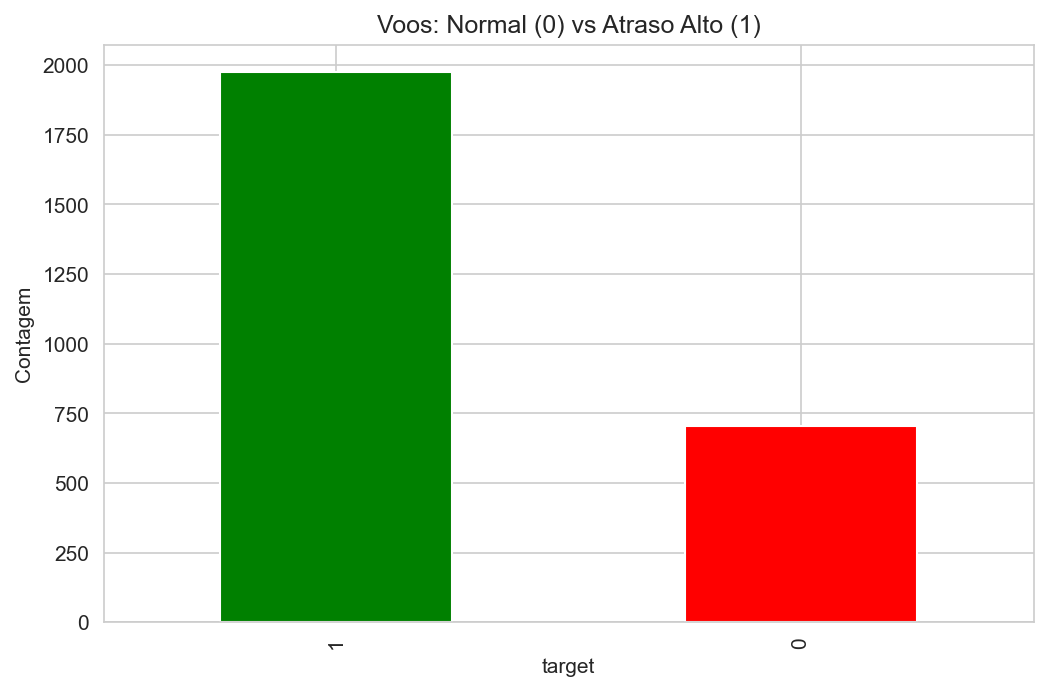
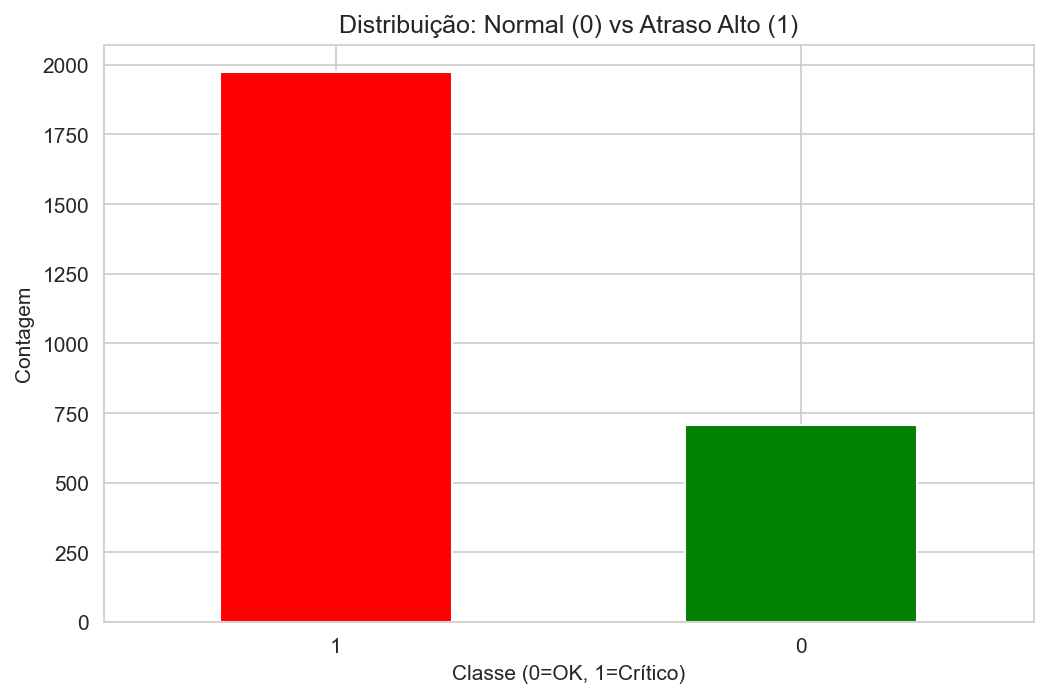
edit eda.py

diff --git a/src/eda.py b/src/eda.py
@@ -1,6 +1,6 @@
 #!/usr/bin/env python3
 """
-Task 2 EDA: Stats + Plots obrigatórios Tech Challenge Fase 3
+Task 2 EDA: Stats + Plots obrigatórios (FIX top_features)
 Roda da RAIZ projeto!
 """
 import argparse
@@ -8,48 +8,65 @@ import pandas as pd
 import matplotlib.pyplot as plt
 import seaborn as sns
 import os
-import sys
+import numpy as np
 
 sns.set_style("whitegrid")
 
 def eda(input_path, output_dir):
-    # Paths ABSOLUTOS da raiz projeto
-    script_dir = os.path.dirname(os.path.abspath(__file__))  # src/
-    project_root = os.path.dirname(script_dir)  # raiz/
+    # Paths da raiz projeto
+    script_dir = os.path.dirname(os.path.abspath(__file__))  
+    project_root = os.path.dirname(script_dir)
     
-    X_train = pd.read_parquet(os.path.join(project_root, input_path))
-    y_train_df = pd.read_parquet(os.path.join(project_root, 'data/processed/y_train.parquet'))
-    y_train = y_train_df['target']  # Extrai Series
+    X_path = os.path.join(project_root, input_path)
+    y_path = os.path.join(project_root, 'data/processed/y_train.parquet')
+    
+    X_train = pd.read_parquet(X_path)
+    y_train_df = pd.read_parquet(y_path)
+    y_train = y_train_df['target']
     
     os.makedirs(output_dir, exist_ok=True)
     print(f"🔍 EDA X_train: {X_train.shape}")
     
-    # Stats descritivas (obrigatório)
+    # 1. Stats descritivas
     stats = X_train.describe().round(3)
     stats.to_csv(os.path.join(project_root, output_dir, 'stats.csv'))
+    print("📊 stats.csv salvo")
     
-    # Plot 1: Target distribution
+    # 2. Target distribution
     plt.figure(figsize=(8, 5))
-    y_train.value_counts().plot(kind='bar', color=['green', 'red'])
-    plt.title('Voos: Normal (0) vs Atraso Alto (1)')
-    plt.ylabel('Contagem')
+    y_counts = y_train.value_counts()
+    colors = ['green' if i==0 else 'red' for i in y_counts.index]
+    y_counts.plot(kind='bar', color=colors)
+    plt.title('Distribuição: Normal (0) vs Atraso Alto (1)')
+    plt.ylabel('Contagem'); plt.xlabel('Classe (0=OK, 1=Crítico)')
+    plt.xticks(rotation=0)
     plt.savefig(os.path.join(project_root, output_dir, 'target_dist.png'), dpi=150, bbox_inches='tight')
     plt.close()
     
-    # Plot 2: Top variância
-    vars_top = X_train.var().nlargest(10)
+    # 3. Top features VARIÂNCIA (FIX: remove duplicates)
+    variances = X_train.var().sort_values(ascending=False)
+    # Remove arr_flights duplicados, pega top únicos
+    top_unique = variances[~variances.index.str.contains('arr_flights')].nlargest(10)
+    if len(top_unique) < 5:
+        top_unique = variances.nlargest(10)  # Fallback
+    
     plt.figure(figsize=(12, 6))
-    vars_top.plot(kind='bar', color='skyblue')
-    plt.title('Top 10 Features (Variância)')
-    plt.xticks(rotation=45)
+    top_unique.head(10).plot(kind='bar', color='skyblue')
+    plt.title('Top 10 Features por Variância (Mais Informativas)')
+    plt.ylabel('Variância'); plt.xlabel('Features')
+    plt.xticks(rotation=45, ha='right')
     plt.tight_layout()
     plt.savefig(os.path.join(project_root, output_dir, 'top_features.png'), dpi=150)
     plt.close()
     
-    print(f"✅ EDA: {os.listdir(os.path.join(project_root, output_dir))}")
+    # Debug print
+    print("Top 5 variância únicas:")
+    print(top_unique.head().to_dict())
+    
+    print(f"✅ EDA completo: {os.listdir(os.path.join(project_root, output_dir))}")
 
 if __name__ == '__main__':
-    parser = argparse.ArgumentParser()
+    parser = argparse.ArgumentParser(description='EDA Flights Dataset')
     parser.add_argument('--input', '-i', default='data/processed/X_train.parquet')
     parser.add_argument('--output', '-o', default='outputs/eda')
     args = parser.parse_args()
